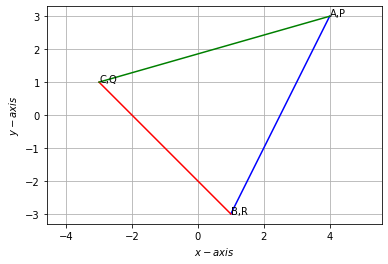
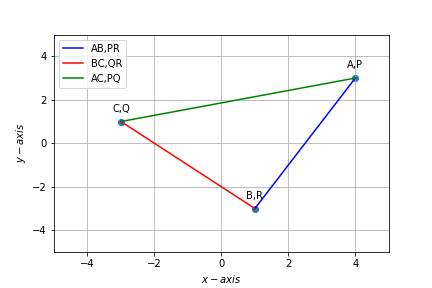
Updates from Overleaf

Changed region(s): [[0.0, 0.0, 0.9897, 1.0]]

diff --git a/triangle.py b/triangle.py
@@ -8,30 +8,60 @@ Original file is located at
 """
 
 import matplotlib.pyplot as plt
+import numpy as np
+
+
+print(f"\n\nCoordinates of triangle ABC are: A{A}, B{B}, C{C} ")
+print(f"Coordinates of triangle PQR are: P{P}, Q{Q}, R{R} ")
+
+a1 = np.array([[1, 1, 1], [4, 1, -3], [3, -3, 1]])
+print(f"\n\nTriangle ABC:\n{a1}")
+area_abc=0.5*np.linalg.det(a1)
+print(f"\nArea of Triangle ABC= {area_abc}")
+
+a2 = np.array([[1, 1, 1], [4, -3, 1], [3, 1, -3]])
+print(f"\n\nTriangle PQR:\n{a2}")
+area_pqr=0.5*np.linalg.det(a2)
+print(f"\nArea of Triangle PQR= {area_pqr}\n\n")
+
+
+
+### GRAPH DISPLAY
 
 # AB
-x1 = [4,1]
-y1 = [3,-3]
-# plotting  
-plt.plot(x1, y1,color='blue')
+plt.plot([4,1],[3,-3],color='blue', label="AB,PR" )
 # BC
-x2 = [1,-3]
-y2 = [-3,1]
-# plotting  
-plt.plot(x2, y2,color='red')
+plt.plot([1,-3],[-3,1],color='red', label="BC,QR")
 # AC
-x1 = [4,-3]
-y1 = [3,1]
-# plotting 
-plt.plot(x1, y1,color='green')
-
-plt.annotate("A,P", (4, 3))
-plt.annotate("B,R", (1, -3))
-plt.annotate("C,Q", (-3, 1))
+plt.plot([4,-3],[3,1],color='green', label="AC,PQ")
 
 
-plt.ylabel('$y-axis$')
+A=np.array([4,3])
+B=np.array([1,-3])
+C=np.array([-3,1])
+
+P=np.array([4,3])
+Q=np.array([-3,1])
+R=np.array([1,-3])
+
+ 
+#annotations
+quad_coords = np.vstack((A,B,C)).T
+plt.scatter(quad_coords[0,:], quad_coords[1,:])
+vert_labels = ['A,P','B,R','C,Q']
+for i, txt in enumerate(vert_labels):
+    plt.annotate(txt, # this is the text
+                 (quad_coords[0,i], quad_coords[1,i]), # this is the point to label
+                 textcoords="offset points", # how to position the text
+                 xytext=(0,10), # distance from text to points (x,y)
+                 ha='center') # horizontal alignment can be left, right or center
+
+
 plt.xlabel('$x-axis$')
-plt.grid() 
-plt.axis('equal')
+plt.ylabel('$y-axis$')
+plt.legend(loc='best')
+plt.grid()
+plt.xlim(-5,5)
+plt.ylim(-5,5)
+plt.savefig('triangle.png')
 plt.show()

diff --git a/assignment-1.tex b/assignment-1.tex
@@ -207,7 +207,7 @@ $\left | ABC \right |\left | J \right |=\left | (ABC)J \right |=(-18)(-1)=18$
 \begin{align}
 \therefore\triangle PQR=\left | PQR \right |=18
 \end{align}
-Hence, the difference in the sign in the areas of $\triangle ABC$ and $\triangle PQR$.\\
+Hence, the difference in the sign in the areas of $\triangle ABC$ and $\triangle PQR$.
 \begin{figure}[!ht]
 	\centering
 	\includegraphics[scale=0.5]{triangle.png}
